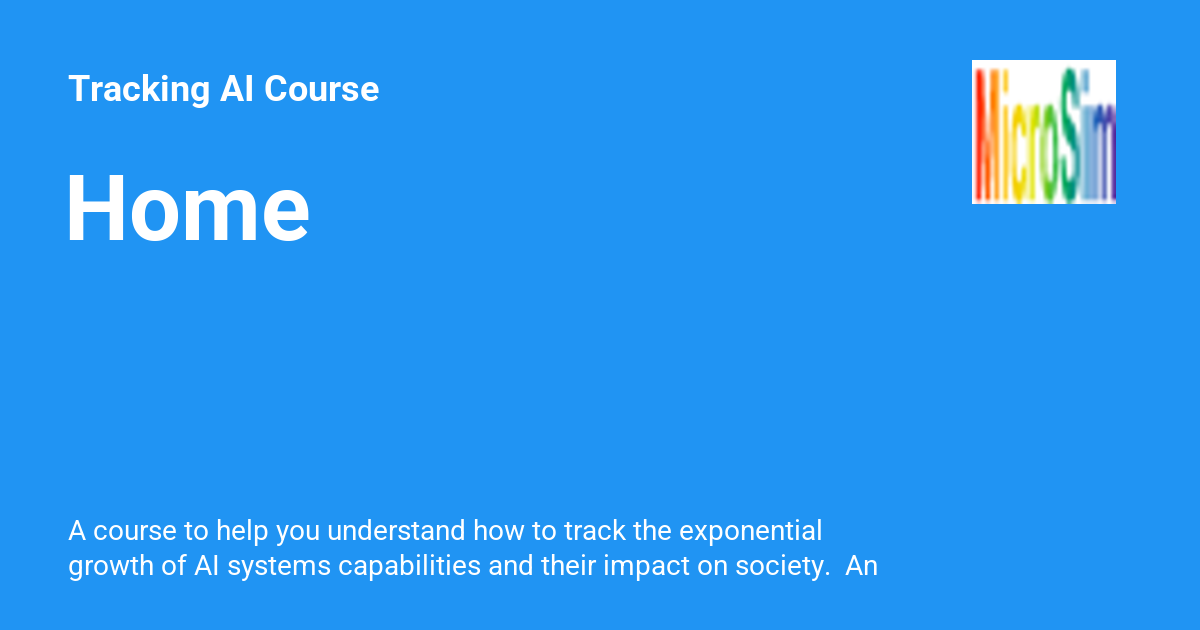
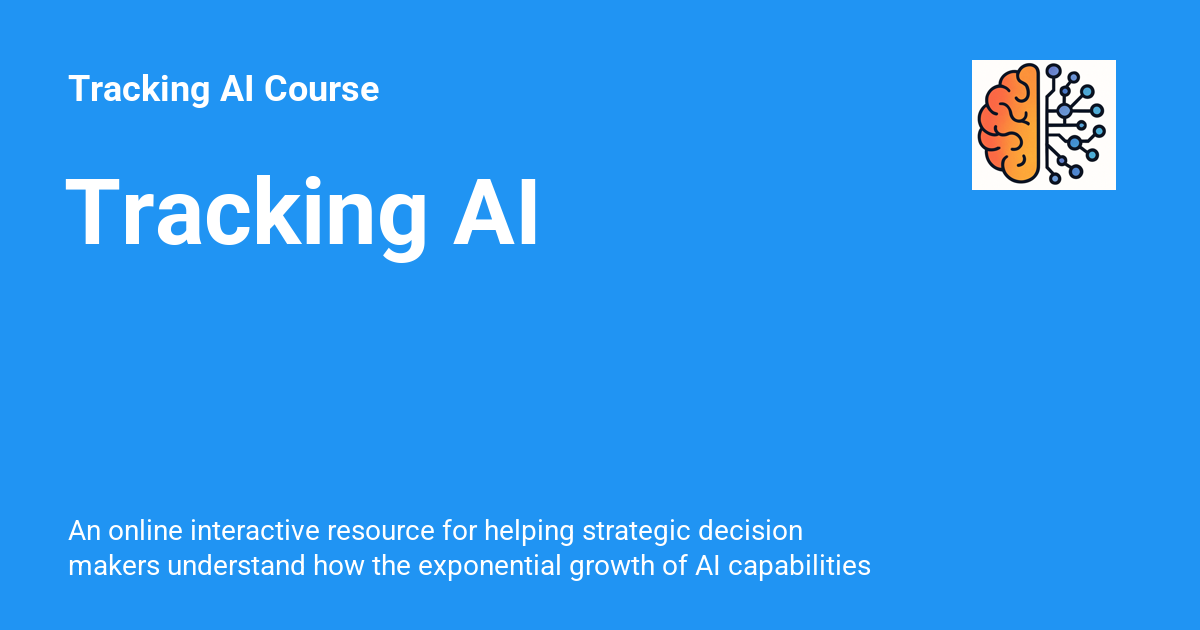
Deployed 57ed8df with MkDocs version: 1.6.1

Changed region(s): [[0.0617, 0.8143, 0.74, 0.9349], [0.0308, 0.2714, 0.4625, 0.4222], [0.8017, 0.0905, 0.9558, 0.3317]]

diff --git a/index.html b/index.html
@@ -6,7 +6,7 @@
       <meta charset="utf-8">
       <meta name="viewport" content="width=device-width,initial-scale=1">
       
-        <meta name="description" content="A course to help you understand how to track the exponential growth of AI systems capabilities and their impact on society.  An analysis of the limitations of LLMs and the need for world models">
+        <meta name="description" content="An online interactive resource for helping strategic decision makers understand how the exponential growth of AI capabilities will impact their organization">
       
       
         <meta name="author" content="Dan McCreary">
@@ -24,7 +24,7 @@
     
     
       
-        <title>Tracking AI Course</title>
+        <title>Tracking AI - Tracking AI Course</title>
       
     
     
@@ -73,9 +73,9 @@
       
         <meta  property="og:title"  content="Tracking AI Course" >
       
-        <meta  property="og:description"  content="A course to help you understand how to track the exponential growth of AI systems capabilities and their impact on society.  An analysis of the limitations of LLMs and the need for world models" >
+        <meta  property="og:description"  content="An online interactive resource for helping strategic decision makers understand how the exponential growth of AI capabilities will impact their organization" >
       
-        <meta  property="og:image"  content="https://dmccreary.github.io/tracking-ai-course/assets/images/social/index.png" >
+        <meta property="og:image" content="https://dmccreary.github.io/tracking-ai-course/tracking-ai-course/img/cover.png">
       
         <meta  property="og:image:type"  content="image/png" >
       
@@ -89,9 +89,9 @@
       
         <meta  name="twitter:title"  content="Tracking AI Course" >
       
-        <meta  name="twitter:description"  content="A course to help you understand how to track the exponential growth of AI systems capabilities and their impact on society.  An analysis of the limitations of LLMs and the need for world models" >
+        <meta  name="twitter:description"  content="An online interactive resource for helping strategic decision makers understand how the exponential growth of AI capabilities will impact their organization" >
       
-        <meta  name="twitter:image"  content="https://dmccreary.github.io/tracking-ai-course/assets/images/social/index.png" >
+        <meta name="twitter:image" content="https://dmccreary.github.io/tracking-ai-course/tracking-ai-course/img/cover.png">
       
     
     
@@ -147,7 +147,7 @@
         <div class="md-header__topic" data-md-component="header-topic">
           <span class="md-ellipsis">
             
-              Home
+              Tracking AI
             
           </span>
         </div>
